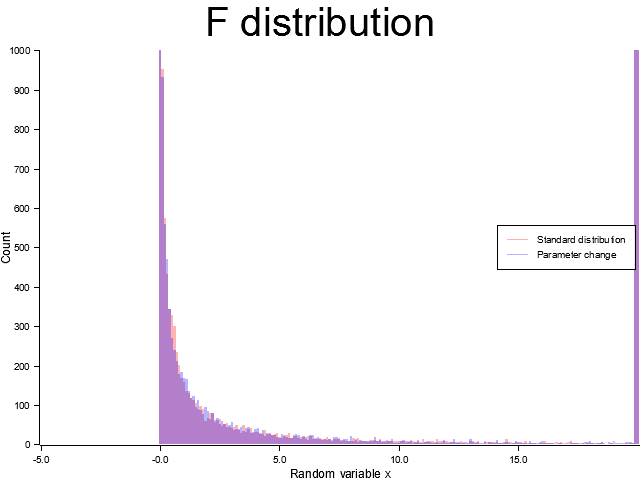
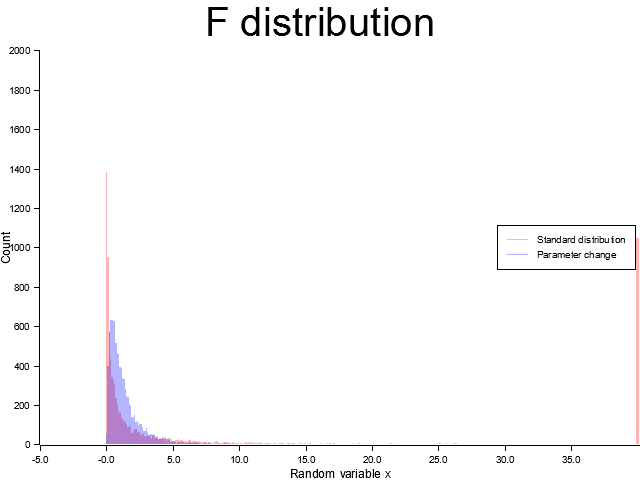
0.2.4i (修正) F分布の引数指定の修正

diff --git a/src/distributions/f.rs b/src/distributions/f.rs
@@ -8,21 +8,19 @@ impl FDistribution {
         let adjusted_seeds = crate::adjust_seeds!(seeds);
 
         Self {
-            xyzuv_alpha_1: create_state(adjusted_seeds[0]),
-            xyzuv0_alpha_1: create_state(adjusted_seeds[1]),
-            xyzuv1_alpha_1: create_state(adjusted_seeds[2]),
-            shape_alpha_1: 1_f64,
+            xyzuv_u_gamma_1: create_state(adjusted_seeds[0]),
+            xyzuv_n_0_gamma_1: create_state(adjusted_seeds[1]),
+            xyzuv_n_1_gamma_1: create_state(adjusted_seeds[2]),
 
-            xyzuv_beta_1: create_state(adjusted_seeds[3]),
+            xyzuv_uniform_1: create_state(adjusted_seeds[3]),
 
             degree_of_freedom_1: 1_f64,
 
-            xyzuv_alpha_2: create_state(adjusted_seeds[4]),
-            xyzuv0_alpha_2: create_state(adjusted_seeds[5]),
-            xyzuv1_alpha_2: create_state(adjusted_seeds[6]),
-            shape_alpha_2: 1_f64,
+            xyzuv_u_gamma_2: create_state(adjusted_seeds[4]),
+            xyzuv_n_0_gamma_2: create_state(adjusted_seeds[5]),
+            xyzuv_n_1_gamma_2: create_state(adjusted_seeds[6]),
 
-            xyzuv_beta_2: create_state(adjusted_seeds[7]),
+            xyzuv_uniform_2: create_state(adjusted_seeds[7]),
 
             degree_of_freedom_2: 1_f64,
         }
@@ -34,42 +32,42 @@ impl FDistribution {
         // step 1: χ二乗分布の確率変数を2個生成する
         let chi_1 = if self.degree_of_freedom_1 > 1_f64 {
             standard_gamma(
-                &mut self.xyzuv_alpha_1,
-                &mut self.xyzuv0_alpha_1,
-                &mut self.xyzuv1_alpha_1,
-                &self.shape_alpha_1,
+                &mut self.xyzuv_u_gamma_1,
+                &mut self.xyzuv_n_0_gamma_1,
+                &mut self.xyzuv_n_1_gamma_1,
+                &self.degree_of_freedom_1,
             ) * 2_f64
         } else {
             let y = standard_gamma(
-                &mut self.xyzuv_alpha_1,
-                &mut self.xyzuv0_alpha_1,
-                &mut self.xyzuv1_alpha_1,
+                &mut self.xyzuv_u_gamma_1,
+                &mut self.xyzuv_n_0_gamma_1,
+                &mut self.xyzuv_n_1_gamma_1,
                 &(3_f64 / 2_f64),
             ) * 2_f64;
-            let u = xorshift160_0_1_open(&mut self.xyzuv_beta_1);
+            let u = xorshift160_0_1_open(&mut self.xyzuv_uniform_1);
             u.powi(2) * y * 2_f64
         };
 
         let chi_2 = if self.degree_of_freedom_2 > 1_f64 {
             standard_gamma(
-                &mut self.xyzuv_alpha_2,
-                &mut self.xyzuv0_alpha_2,
-                &mut self.xyzuv1_alpha_2,
-                &self.shape_alpha_2,
+                &mut self.xyzuv_u_gamma_2,
+                &mut self.xyzuv_n_0_gamma_2,
+                &mut self.xyzuv_n_1_gamma_2,
+                &self.degree_of_freedom_2,
             ) * 2_f64
         } else {
             let y = standard_gamma(
-                &mut self.xyzuv_alpha_2,
-                &mut self.xyzuv0_alpha_2,
-                &mut self.xyzuv1_alpha_2,
+                &mut self.xyzuv_u_gamma_2,
+                &mut self.xyzuv_n_0_gamma_2,
+                &mut self.xyzuv_n_1_gamma_2,
                 &(3_f64 / 2_f64),
             ) * 2_f64;
-            let u = xorshift160_0_1_open(&mut self.xyzuv_beta_2);
+            let u = xorshift160_0_1_open(&mut self.xyzuv_uniform_2);
             u.powi(2) * y * 2_f64
         };
 
         // step 2: 確率変数を計算する
-        self.degree_of_freedom_1 * chi_1 / chi_2 / self.degree_of_freedom_2
+        (self.degree_of_freedom_2 * chi_1) / (chi_2 * self.degree_of_freedom_1)
     }
 
     /// 確率変数のパラメータを変更する
@@ -79,7 +77,7 @@ impl FDistribution {
         degree_of_freedom_1: u64,
         degree_of_freedom_2: u64,
     ) -> Result<(u64, u64), &str> {
-        if degree_of_freedom_1 < 1_u64 || degree_of_freedom_1 < 2_u64 {
+        if degree_of_freedom_1 < 1_u64 || degree_of_freedom_2 < 2_u64 {
             Err("自由度は自然数である必要があります。確率変数のパラメータは前回の設定を維持します。")
         } else {
             self.degree_of_freedom_1 = degree_of_freedom_1 as f64;

diff --git a/src/lib.rs b/src/lib.rs
@@ -474,23 +474,21 @@ pub struct Chi {
 /// println!("自由度 {}, {}の乱数を生成する -> {}", degree_of_freedom_1, degree_of_freedom_2, f.sample());
 /// ```
 pub struct FDistribution {
-    xyzuv_alpha_1: [u32; 5],  // 状態変数
-    xyzuv0_alpha_1: [u32; 5], // 状態変数
-    xyzuv1_alpha_1: [u32; 5], // 状態変数
-    shape_alpha_1: f64,
+    xyzuv_u_gamma_1: [u32; 5],   // 状態変数
+    xyzuv_n_0_gamma_1: [u32; 5], // 状態変数
+    xyzuv_n_1_gamma_1: [u32; 5], // 状態変数
 
-    xyzuv_beta_1: [u32; 5], // 状態変数
+    xyzuv_uniform_1: [u32; 5], // 状態変数
 
-    degree_of_freedom_1: f64, // 形状母数
+    degree_of_freedom_1: f64, // 形状母数 r ∈ N
 
-    xyzuv_alpha_2: [u32; 5],  // 状態変数
-    xyzuv0_alpha_2: [u32; 5], // 状態変数
-    xyzuv1_alpha_2: [u32; 5], // 状態変数
-    shape_alpha_2: f64,
+    xyzuv_u_gamma_2: [u32; 5],   // 状態変数
+    xyzuv_n_0_gamma_2: [u32; 5], // 状態変数
+    xyzuv_n_1_gamma_2: [u32; 5], // 状態変数
 
-    xyzuv_beta_2: [u32; 5], // 状態変数
+    xyzuv_uniform_2: [u32; 5], // 状態変数
 
-    degree_of_freedom_2: f64, // 形状母数
+    degree_of_freedom_2: f64, // 形状母数 r ∈ N
 }
 
 // t分布

diff --git a/examples/f.rs b/examples/f.rs
@@ -16,8 +16,8 @@ fn main() -> Result<(), Box<dyn std::error::Error>> {
         .y_label_area_size(40)
         .caption(CAPTION, ("sans-serif", 50.0))
         .build_cartesian_2d(
-            (-5_f64..20_f64).step(0.1_f64).use_round().into_segmented(),
-            0u32..1_000u32,
+            (-5_f64..40_f64).step(0.1_f64).use_round().into_segmented(),
+            0u32..2_000u32,
         )?;
     // 軸の設定
     chart
